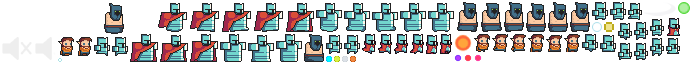
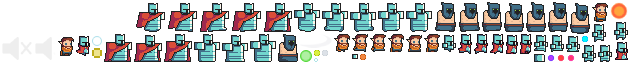
adds particles/explosions on enemy death

diff --git a/src/services/EnemySpawner.js b/src/services/EnemySpawner.js
@@ -1,5 +1,6 @@
 import { ENEMIES } from '../constants'
 import { Enemy } from '../sprites/Enemy'
+import { Explosions } from './Explosions'
 
 const SPAWN_DISTANCE = 300
 // fodder are always slow, weak, small, and collide
@@ -18,6 +19,25 @@ export class EnemySpawner {
     this.target = this.scene.player
     this.physics = this.scene.physics
     this.spawnTimer = 3
+
+    this.particles = this.scene.add.particles('tiles')
+    this.emitter = this.particles
+      .createEmitter({
+        frame: ['bit1.png', 'bit1.png', 'bit1.png', 'bit2.png'],
+        speed: { min: 60, max: -60 },
+        scale: { max: 1.25, min: 0.75 },
+        lifespan: { max: 1200, min: 600 },
+        alpha: { start: 1, end: 0 },
+        rotate: {
+          onEmit: (p) => (p.speed = Phaser.Math.RND.between(-2, 2)),
+          onUpdate: (p) => p.angle + p.speed,
+        },
+      })
+      .stop()
+    // this.emitter.setDepth(3)
+    this.particles.setDepth(3)
+
+    this.explosions = new Explosions(this.scene)
 
     this.enemies = scene.physics.add.group({
       classType: Enemy,

diff --git a/src/services/Explosions.js b/src/services/Explosions.js
@@ -1,0 +1,33 @@
+export class Explosions extends Phaser.Physics.Arcade.Group {
+  constructor(scene) {
+    super(scene.physics.world, scene)
+    this.createMultiple({
+      frameQuantity: 1,
+      key: 'tiles',
+      active: false,
+      visible: false,
+      classType: Explosion,
+      setXY: { x: -100, y: -100 },
+    })
+  }
+  makeExplosion(x, y, scale) {
+    let explosion = this.getFirstDead()
+    if (explosion) explosion.spawn(x, y, scale)
+  }
+}
+
+export class Explosion extends Phaser.Physics.Arcade.Sprite {
+  constructor(scene, x, y, key) {
+    super(scene, x, y, key)
+  }
+  spawn(x, y, scale) {
+    this.body.reset(x, y)
+    if (scale) this.setScale(scale)
+    this.setActive(true).setVisible(true)
+    this.angle = Phaser.Math.RND.between(0, 360)
+    this.anims.play('explosion')
+    this.once('animationcomplete', () => {
+      this.setVisible(false).setActive(false)
+    })
+  }
+}

diff --git a/src/sprites/Enemy.js b/src/sprites/Enemy.js
@@ -12,7 +12,7 @@ export class Enemy extends Phaser.Physics.Arcade.Sprite {
     if (!this.active) return
 
     if (this.hitTimer > 0) this.hitTimer--
-    this.hpBar.move(this.x, this.y - this.body.height / 2)
+    this.hpBar.move(this.x, this.y)
 
     if (this.updateTimer-- > 0) return
 
@@ -76,6 +76,16 @@ export class Enemy extends Phaser.Physics.Arcade.Sprite {
     this.body.enable = false
     this.hpBar.die()
     this.scene.orbSpawner.spawn(this.x, this.y, this.xp)
+    this.scene.enemySpawner.explosions.makeExplosion(
+      this.x,
+      this.y,
+      Phaser.Math.RND.between(6, 12) / 10,
+    )
+    this.scene.enemySpawner.emitter.explode(
+      Phaser.Math.RND.between(3, 6),
+      this.x,
+      this.y,
+    )
 
     this.scene.sound.play(`death-${Phaser.Math.RND.between(0, 3)}`, {
       volume: 0.1,

diff --git a/config-overrides.js b/config-overrides.js
@@ -1,0 +1,9 @@
+const ModuleScopePlugin = require('react-dev-utils/ModuleScopePlugin')
+
+module.exports = function override(config, env) {
+  config.resolve.plugins = config.resolve.plugins.filter(
+    (plugin) => !(plugin instanceof ModuleScopePlugin),
+  )
+
+  return config
+}

diff --git a/src/sprites/Orb.js b/src/sprites/Orb.js
@@ -4,7 +4,7 @@ export class Orb extends Phaser.Physics.Arcade.Sprite {
 
     this.scene.physics.world.enableBody(this, 0)
 
-    this.setScale(2).setTint(0xffff00)
+    this.setScale(2).setTint(0xffff00).setDepth(1)
     this.resize()
   }
 
